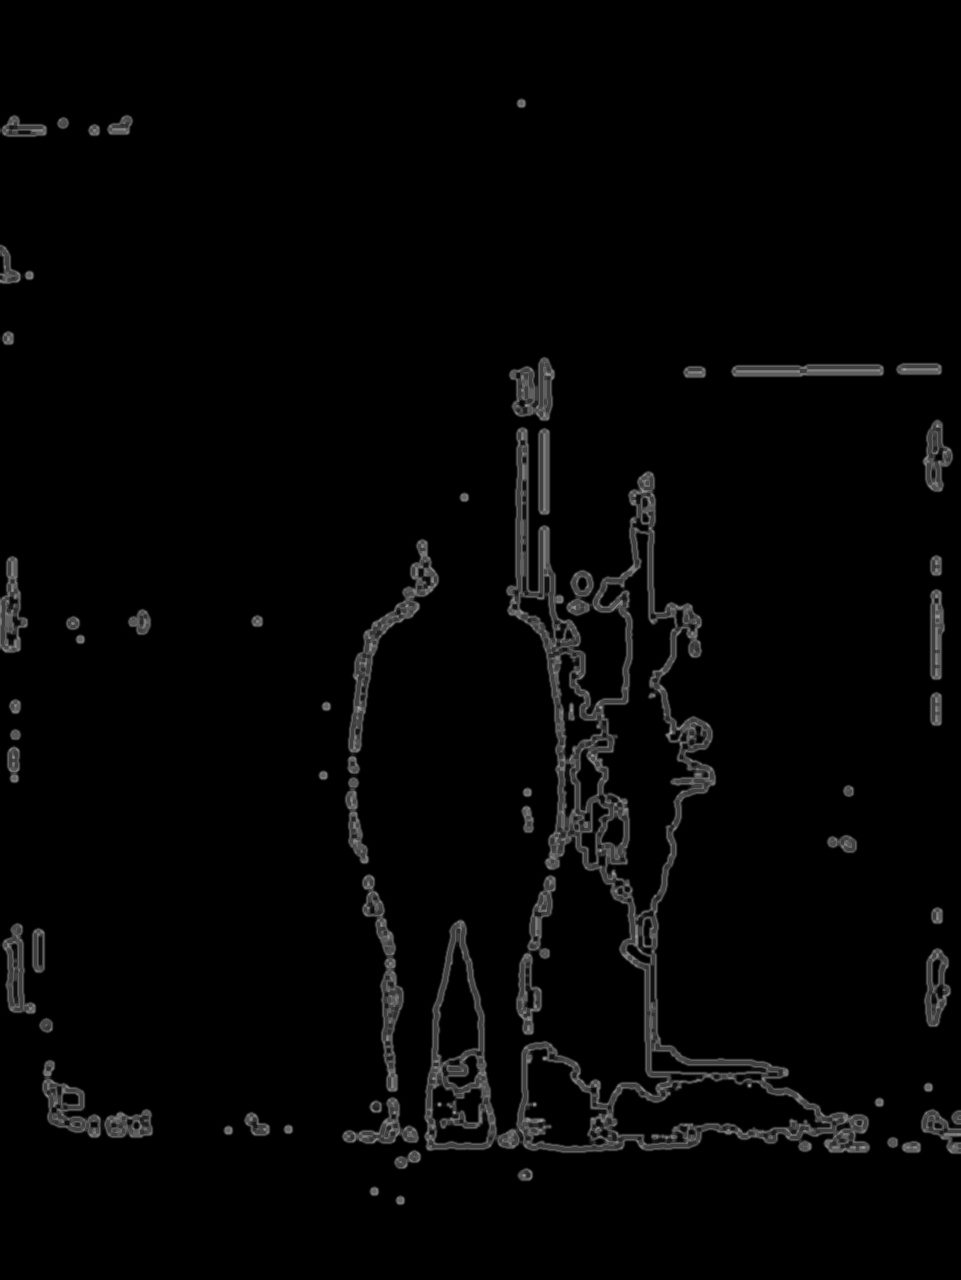
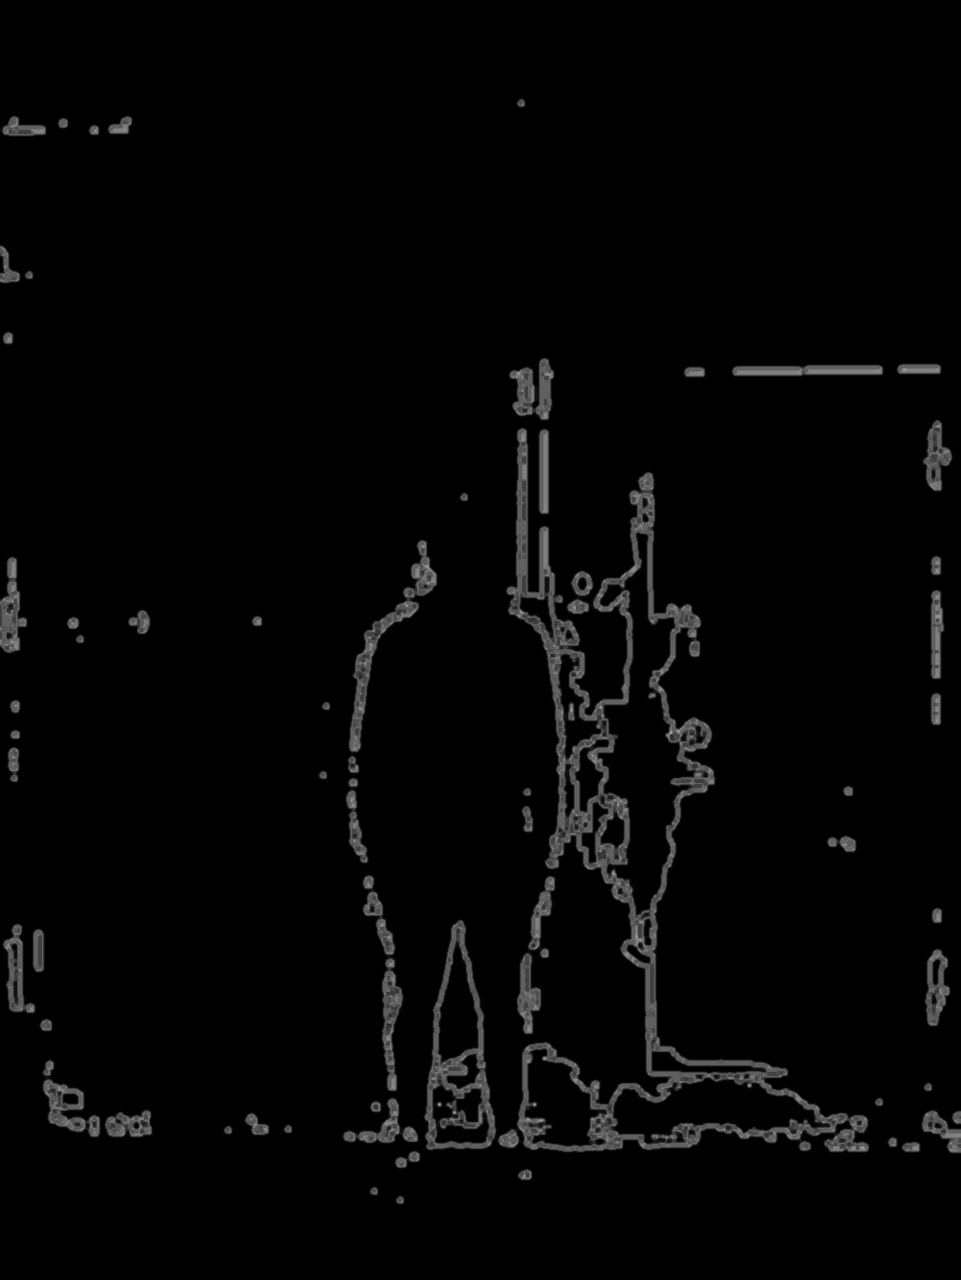
Choose head size

diff --git a/src/Main.java b/src/Main.java
@@ -20,7 +20,8 @@ public class Main {
     public static final Scalar COLOR_LIGHTGREEN = colorRGB(153, 255, 153);
     public static final Scalar COLOR_BROWN = colorRGB(150, 75, 0);
 
-    public static final double backgroundsize = 2.5;
+    public static final double backgroundsize = 3.5;
+    public static Mat img;
 
     static {
         System.loadLibrary(Core.NATIVE_LIBRARY_NAME);
@@ -30,7 +31,8 @@ public class Main {
         return new Scalar(blue, green, red);
     }
 
-    public static void getHeight(Mat img5, ArrayList<MatOfPoint> contours, double humanImgHeight){
+    public static void getHeight(Mat img5, ArrayList<MatOfPoint> contours, Rect faceRect){
+        double pixelHeight = 0;
         int upper = 0;
         int lower = img5.height();
         Rect r = null;
@@ -44,31 +46,50 @@ public class Main {
                 lower = r.y;
             }
         }
-        System.out.println("Рост человека в пикселях: " +  humanImgHeight);
+        Imgproc.line(img, new Point(0, upper), new Point(img.width(), upper), COLOR_RED);
+        Imgproc.line(img, new Point(0, lower), new Point(img.width(), lower), COLOR_GREEN);
+        pixelHeight = backgroundsize / (upper - lower);
+        System.out.println("Рост человека в пикселях: " +  (faceRect.y - lower));
         System.out.println("Высота предмета в пикселях: " +  (upper - lower));
-        System.out.println("Рост человека: " + ((backgroundsize * humanImgHeight)/ (upper - lower)));
+        System.out.println("Рост человека: " + pixelHeight * (faceRect.y - lower));
+        System.out.println("Обьем головы: " + pixelHeight * faceRect.width);
     }
 
     public static void main(String[] args) {
         ArrayList<MatOfPoint> contours = null;
-        Mat img = Imgcodecs.imread("test6.jpg");
+        img = Imgcodecs.imread("test6.jpg");
         if (img.empty()) {
             System.out.println("Не удалось загрузить изображение");
             return;
         }
         String path = "classifier/haarcascade_fullbody.xml";
+        String pathFace = "classifier/haarcascade_frontalface_alt.xml";
         CascadeClassifier fullbody_detector = new CascadeClassifier();
         if (!fullbody_detector.load(path)) {
             System.out.println("Не удалось загрузить классификатор " + path);
             return;
         }
 
+        CascadeClassifier face_detector = new CascadeClassifier();
+        if (!face_detector.load(pathFace)) {
+            System.out.println("Не удалось загрузить классификатор " + pathFace);
+            return;
+        }
+
         MatOfRect fullbodyMat = new MatOfRect();
         fullbody_detector.detectMultiScale(img, fullbodyMat, 1.6, 3, 0, new Size(), new Size());
+
+        MatOfRect faceMat = new MatOfRect();
+        face_detector.detectMultiScale(img, faceMat);
 
         Rect bodyRect = null;
         for (Rect r : fullbodyMat.toList()) {
             bodyRect = new Rect(r.x, r.y, r.width, r.height);
+        }
+
+        Rect faceRect = null;
+        for (Rect r : faceMat.toList()) {
+            faceRect = new Rect(r.x, r.y, r.width, r.height);
         }
 
         Mat bodyImg = new Mat(img, bodyRect);
@@ -93,7 +114,7 @@ public class Main {
         contours = d.getContour();
         Mat height = d.getResult();
 
-        getHeight(height, contours, bodyRect.height);
+        getHeight(height, contours, faceRect);
 
         Imgproc.cvtColor(bodyImg, bodyImg, Imgproc.COLOR_BGR2GRAY);
 
@@ -109,10 +130,12 @@ public class Main {
         }
 
         Imgproc.cvtColor(img, img, Imgproc.COLOR_HSV2BGR);
-        Imgproc.line(img, new Point(0, 1173), new Point(img.width(), 1173), COLOR_RED);
-        Imgproc.line(img, new Point(0, 119), new Point(img.height(), 119), COLOR_GREEN);
         Imgproc.rectangle(img, new Point(bodyRect.x, bodyRect.y),
                 new Point(bodyRect.x + bodyRect.width, bodyRect.y + bodyRect.height), COLOR_BLACK);
+        Imgproc.rectangle(img, new Point(faceRect.x, faceRect.y),
+                new Point(faceRect.x + faceRect.width, faceRect.y + faceRect.height), COLOR_BLUE);
+
+        Imgproc.line(img, new Point(0, faceRect.y), new Point(img.width(), faceRect.y), COLOR_PINK);
 
         boolean crop = Imgcodecs.imwrite("photo_new.jpg",hMat);
         if (!crop) {

diff --git a/src/Contours.java b/src/Contours.java
@@ -27,7 +27,7 @@ public class Contours {
     private void getContours(){
         Imgproc.adaptiveThreshold(img4, img4, 255,
                 Imgproc.ADAPTIVE_THRESH_GAUSSIAN_C,
-                Imgproc.THRESH_BINARY_INV, 21, 3);
+                Imgproc.THRESH_BINARY_INV, 7, 3);
         Imgproc.Canny(img4, img4, 150, 255);
         Imgproc.GaussianBlur(img4, img4, new Size(5, 5), 0);
         Mat kernel = Imgproc.getStructuringElement(Imgproc.MORPH_RECT,
